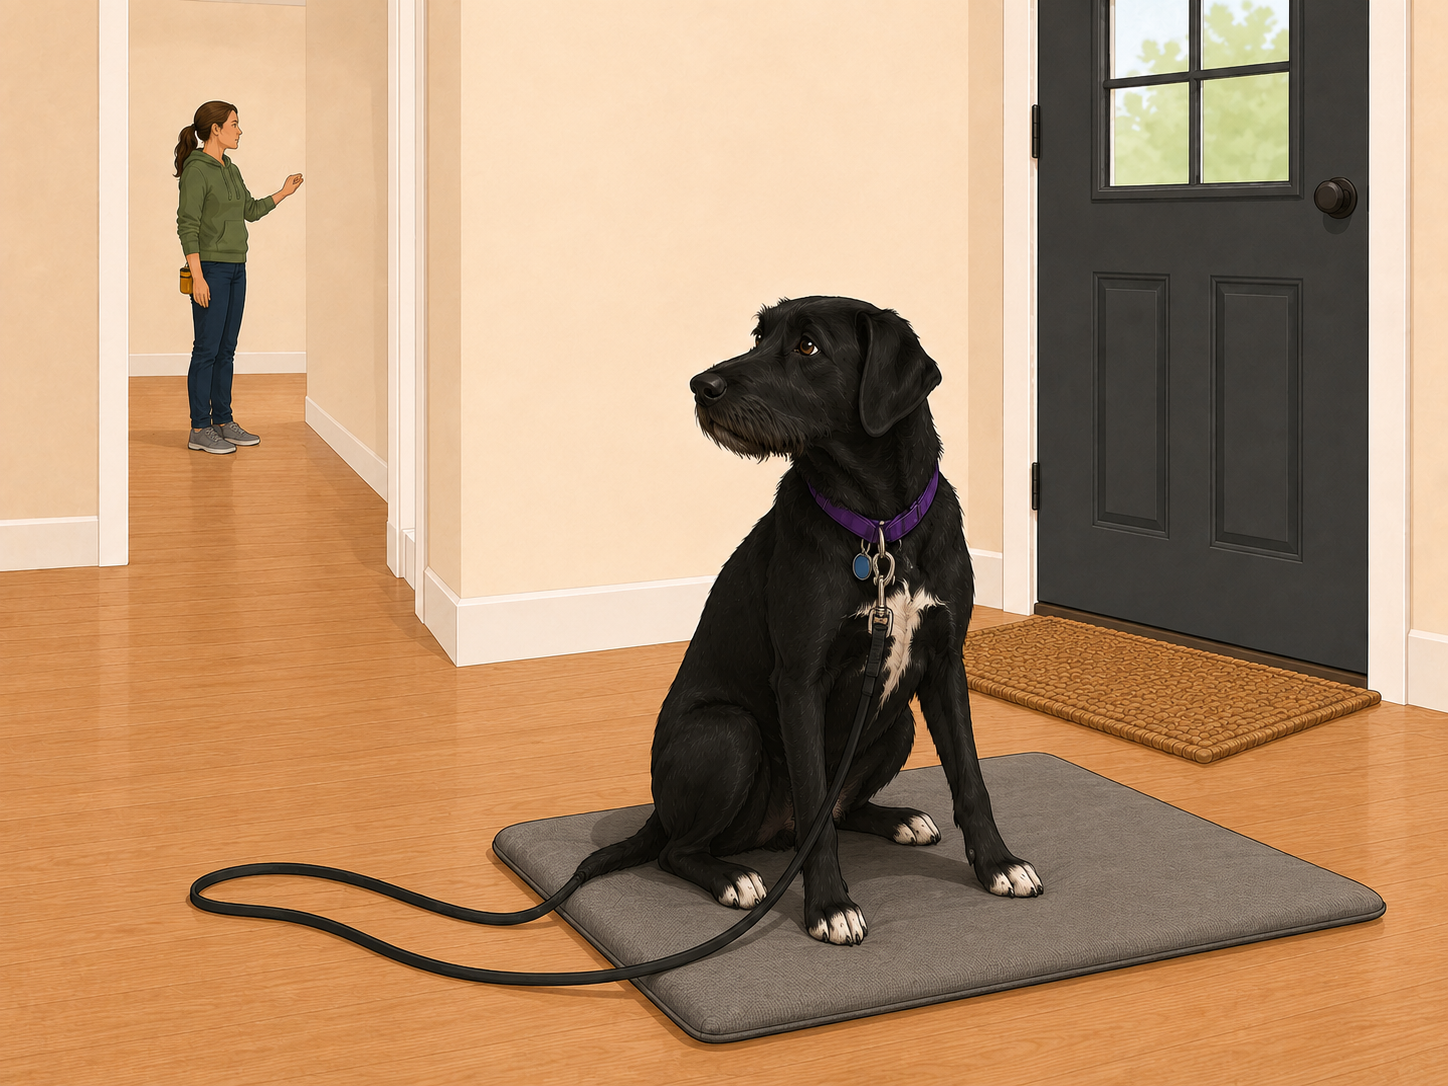
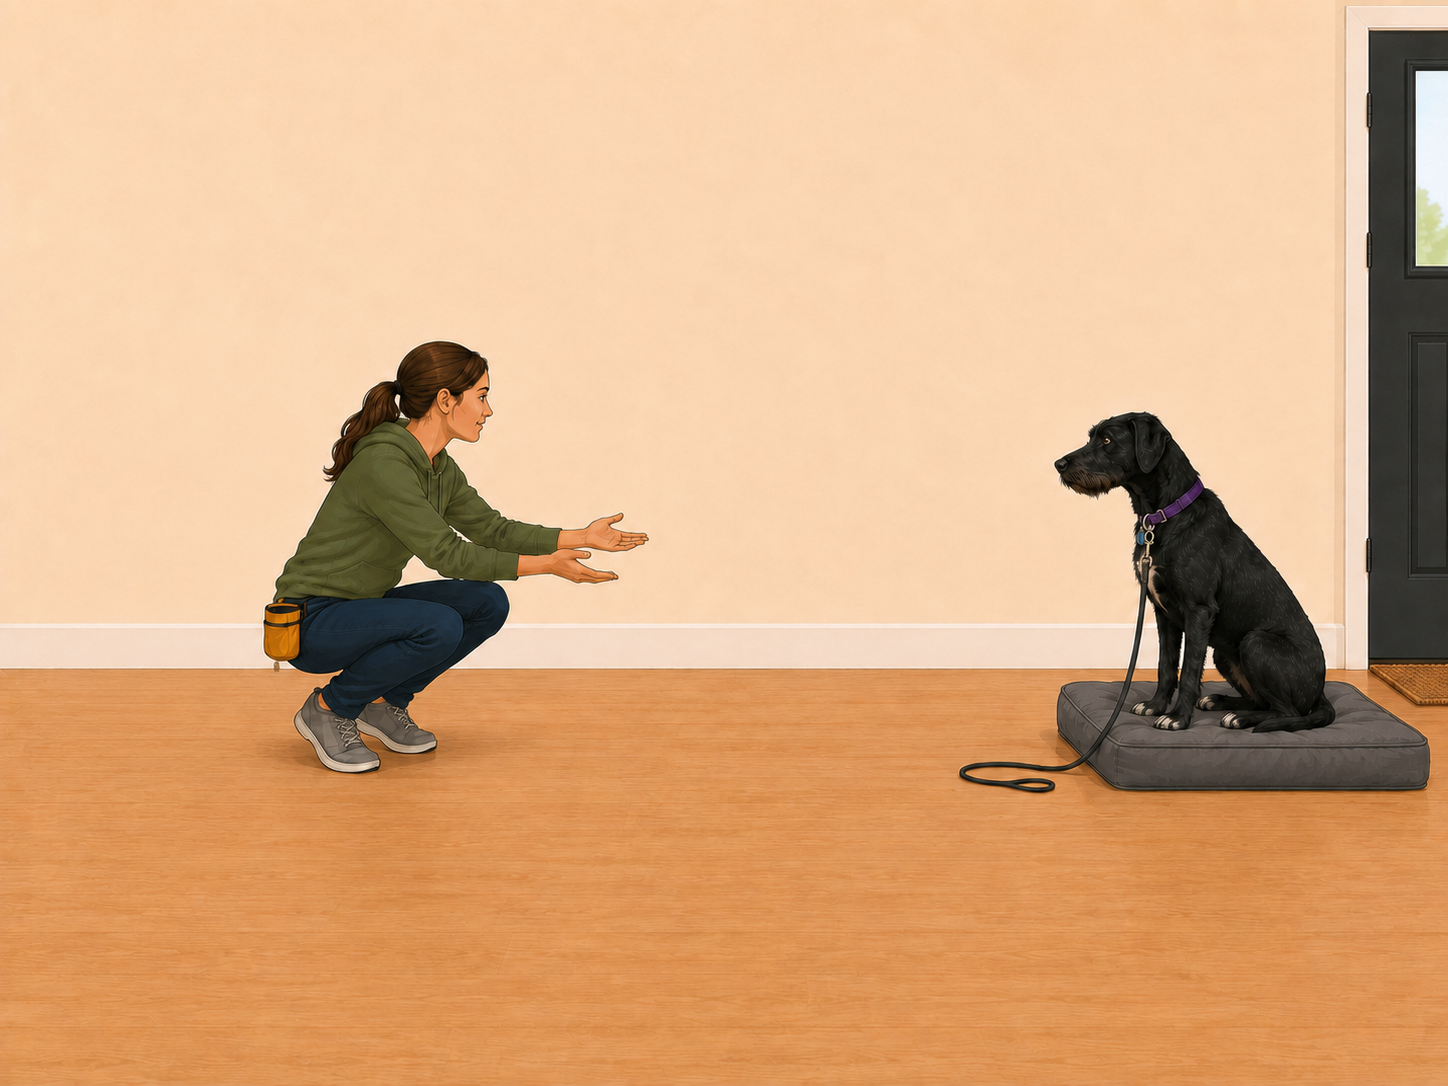
Stop chasing the eyeline, and keep the version before it went wrong
Six attempts, nineteen blind viewers, and no version ever carried 'the two of
them are looking straight at each other'. The camera move fixed the direction -
nobody has said 'the door' since - but not the gaze.

Attempt 5 is where this should have stopped and the brief said so in writing.
The error had stopped converging and started oscillating: the same instruction
pushed her gaze above the handler and then below her, every viewer rating their
confidence low for the same reason - 'the eye is small and dark against black
fur', 'at 10x magnification I still cannot resolve the pupil'. A quantity that
overshoots either side of the target on one instruction is not a pose being
missed, it is a variable nobody controls at this size.

I argued for a sixth attempt anyway, on the grounds that the remaining error
was smaller and better understood. It was, and it still made the picture worse
- on a dimension nobody was testing. Two viewers independently: 'hunched and
withdrawn, head lowered, ears set back, body slightly tucked', 'subdued or wary
rather than engaged'. Chasing the chin down bought the eyeline with her body
language, in an app whose whole subject is a dog's body language.

So attempt 5 ships, attempt 6 does not, and the claim is rewritten to what
three strangers agreed the picture holds: a person down at her level with both
hands open and the dog on her bed facing them. That is the setup for calling
[…]

diff --git a/js/version.js b/js/version.js
@@ -10,7 +10,7 @@
  * The 1.12 lineage continues the old hand-bumped cache names, which reached
  * lucy-learns-v11 before this file existed.
  */
-export const APP_VERSION = '1.71.0';
+export const APP_VERSION = '1.72.0';
 
 /**
  * The day this build went out, shown under the version on the splash.

diff --git a/docs/pilot-prompts.md b/docs/pilot-prompts.md
@@ -146,6 +146,26 @@ pays her, the food has to be in the frame and separate from the fingers.
 > forward, eyes bright — which sends her sightline over the head of anyone
 > kneeling in front of her.
 >
+> **And eye contact needs a close two-shot. A wide shot cannot carry it — do
+> not ask one to.** `door-sound-03-name` and `door-sound-cover` both pass 4/4
+> on mutual attention and both are close-ups where her head fills a good part
+> of the frame. `door-sound-03-name-distant` was asked for the same thing
+> across a room and failed five times with sixteen viewers, the error finally
+> swinging above the handler and then below her on the same instruction. When a
+> brief needs distance **and** eye contact, distance wins if the step is about
+> distance, and the claim has to be rewritten to something the wide shot can
+> hold. Those two requirements are mutually exclusive in this style.
+>
+> **Never buy a gaze with her posture.** Asking for her chin to come down, or
+> her head to turn further, can tip her into a hunched, ears-back, tucked sit —
+> two blind viewers described exactly that as "subdued or wary" and "does not
+> read as bright or eager attention" on a version drawn to fix an eyeline. A
+> dog who looks shut down is a worse error in a training app than a gaze nobody
+> can read, and it is the kind of error that gets waved through because the
+> thing being checked is somewhere else. Any brief that adjusts her head must
+> also say: **ears forward, topline level, weight forward, bright and
+> unworried.**
+>
 > **The handler** is a woman in her thirties with dark brown hair in a ponytail,
 > an olive-green hoodie, dark navy jeans, grey sneakers, and a mustard-yellow
 > treat pouch clipped at her right hip. Her face is in profile or turned away.
@@ -2474,8 +2494,27 @@ outsider has ever read correctly, not because the drawing is incompetent.*
 > Purple collar, round blue tag, bearded muzzle, tufted brows, no white on her
 > face, no harness.
 >
-> The single thing this image must make obvious: **the two of them are looking
-> straight at each other down the length of the room.**
+> The single thing this image must make obvious: **her person is down at her
+> level across the room with both hands open, and she is on her bed facing
+> them.**
+>
+> *(Claim rewritten after the fifth attempt, and the stopping rule above was
+> invoked rather than ignored. It used to end "the two of them are looking
+> straight at each other down the length of the room", and no version ever
+> carried it: five attempts, sixteen blind viewers, nobody. The last two
+> versions are the reason it was abandoned rather than tried a sixth time —
+> the error stopped converging and started oscillating, "above and past her"
+> becoming "below her, toward the floor" for two viewers and still "above" for
+> the third, every one of them rating their own confidence low because "the
+> eye is small and dark against black fur". A quantity that swings either side
+> of the target on the same instruction is not a pose being missed; it is a
+> variable nobody controls at this size.*
+>
+> *What three strangers **did** agree on is what the claim now says: a person
+> squatting with both hands open toward the dog, and the dog sitting on her bed
+> facing them. That is the setup for calling her from another room, which is
+> what the step asks the household to do — the response is the thing being
+> trained, not the thing being shown.)*
 >
 > Landscape 4:3, wider than tall.
 

diff --git a/docs/comprehension-survey.md b/docs/comprehension-survey.md
@@ -123,17 +123,7 @@ landed, it lands here.
 
 **Scoring key —** she has her back to the dog and her attention out of the open door, and the dog is holding her bed anyway.
 
-### Q8. Called from another room
-
-![door-sound-03-name-distant](https://adamdhickey-collab.github.io/lucy-learns/img/door-sound-03-name-distant.jpg)
-
-`door-sound-03-name-distant.jpg` · **redraw of a recorded defect** · 2 references
-
-> **Ask:** In one sentence, what is the person doing, and what is the dog doing?
-
-**Scoring key —** she heard her name from far away and turned toward it.
-
-### Q9. One step away
+### Q8. One step away
 
 ![door-stay-03-onestep](https://adamdhickey-collab.github.io/lucy-learns/img/door-stay-03-onestep.jpg)
 
@@ -143,7 +133,7 @@ landed, it lands here.
 
 **Scoring key —** she has barely moved — the bed is still right at her heel.
 
-### Q10. Halfway to the door
+### Q9. Halfway to the door
 
 ![door-stay-03-halfway](https://adamdhickey-collab.github.io/lucy-learns/img/door-stay-03-halfway.jpg)
 
@@ -153,7 +143,7 @@ landed, it lands here.
 
 **Scoring key —** half the room between them, and the handler has stopped to check.
 
-### Q11. The sound, as a close two-shot
+### Q10. The sound, as a close two-shot
 
 ![door-sound-cover](https://adamdhickey-collab.github.io/lucy-learns/img/door-sound-cover.jpg)
 
@@ -163,7 +153,7 @@ landed, it lands here.
 
 **Scoring key —** she and her person have each other's complete attention.
 
-### Q12. The stay, as an open door
+### Q11. The stay, as an open door
 
 ![door-stay-cover](https://adamdhickey-collab.github.io/lucy-learns/img/door-stay-cover.jpg)
 
@@ -173,7 +163,7 @@ landed, it lands here.
 
 **Scoring key —** the door is wide open and she has stayed where she is.
 
-### Q13. Place, as a dog on a bed and nothing else
+### Q12. Place, as a dog on a bed and nothing else
 
 ![door-place-cover](https://adamdhickey-collab.github.io/lucy-learns/img/door-place-cover.jpg)
 
@@ -183,7 +173,7 @@ landed, it lands here.
 
 **Scoring key —** she is settled on her own bed.
 
-### Q14. Settled on the mat, redrawn with her own coat
+### Q13. Settled on the mat, redrawn with her own coat
 
 ![plan-mat](https://adamdhickey-collab.github.io/lucy-learns/img/plan-mat.jpg)
 
@@ -193,7 +183,7 @@ landed, it lands here.
 
 **Scoring key —** a dog completely asleep.
 
-### Q15. Send her to her bed, redrawn as arriving
+### Q14. Send her to her bed, redrawn as arriving
 
 ![door-place-03-send](https://adamdhickey-collab.github.io/lucy-learns/img/door-place-03-send.jpg)
 
@@ -201,7 +191,17 @@ landed, it lands here.
 
 > **Ask:** In one sentence, what is the person doing, and what is the dog doing?
 
-**Scoring key —** **she is standing on her bed, all four feet, looking up at the person pointing at it.**.
+**Scoring key —** she is standing on her bed, all four feet, looking up at the person pointing at it.
+
+### Q15. Called from another room, shot side-on
+
+![door-sound-03-name-distant](https://adamdhickey-collab.github.io/lucy-learns/img/door-sound-03-name-distant.jpg)
+
+`door-sound-03-name-distant.jpg` · **redraw of a recorded defect** · 1 reference
+
+> **Ask:** In one sentence, what is the person doing, and what is the dog doing?
+
+**Scoring key —** her person is down at her level across the room with both hands open, and she is on her bed facing them.
 
 ---
 

diff --git a/docs/comprehension-pilot.md b/docs/comprehension-pilot.md
@@ -397,6 +397,50 @@ been read correctly by anyone who did not commission it, across three attempts
 and ten viewers. But it is also the point at which the honest options are a
 camera move or a rewritten claim, **not** a fourth attempt at the same shot.
 
+## The camera move, and two attempts past the stopping rule
+
+The camera moved: both figures side-on in full profile at opposite ends of the
+frame, the sightline running across the picture instead of into it. It fixed
+the direction — no viewer has said "the door" since. It did not deliver the
+claim.
+
+| # | Change | Verdict, 3 blind viewers each |
+| --- | --- | --- |
+| 4 | Side-on camera | "past and **above** her" |
+| 5 | Chin down, gap halved | 2 of 3 "**below** her, toward the floor"; 1 still "above" |
+| 6 | Chin down further | "**40–45 degrees below horizontal**… looking at the floor short of her" |
+
+**Attempt 5 is where this should have stopped, and the brief said so in
+writing.** The error had stopped converging and started oscillating: the same
+instruction pushed the gaze above the handler and then below her, with every
+viewer rating their own confidence low for the same reason — *"the eye is small
+and dark against black fur"*, *"at 10x magnification I still cannot resolve the
+pupil"*. A quantity that overshoots either side of the target on the same
+instruction is not a pose being missed. It is a variable nobody controls at
+this size.
+
+I proposed a sixth attempt anyway, on the argument that the remaining error was
+smaller and better understood than the previous five. It was, and it still made
+the picture worse — **on a dimension nobody was testing.** Two viewers
+independently flagged the dog: *"hunched and withdrawn, head lowered, ears set
+back, body slightly tucked"*, *"subdued or wary rather than engaged"*. Chasing
+the chin down bought the eyeline with her body language, in an app whose entire
+subject is a dog's body language.
+
+**Attempt 5 is what ships.** Attempt 6 is not installed. The claim was rewritten
+to what three strangers agreed the picture holds — a person down at the dog's
+level with both hands open, and the dog on her bed facing them — which is the
+*setup* for calling her from another room. The response is the thing being
+trained, not the thing a still frame can show.
+
+Two rules came out of this and are now in Block B, where every future brief
+gets them: **gaze on a black dog is carried by head angle and never by the eye**,
+and **never buy a gaze with her posture.** They cost six attempts and nineteen
+viewers, which is worth it once and would not be worth it twice.
+
+The cheapest lesson is the one about stopping rules: writing one down does not
+help if you argue your way past it the first time it binds.
+
 ---
 
 # Block C, second run — the covers as a set
